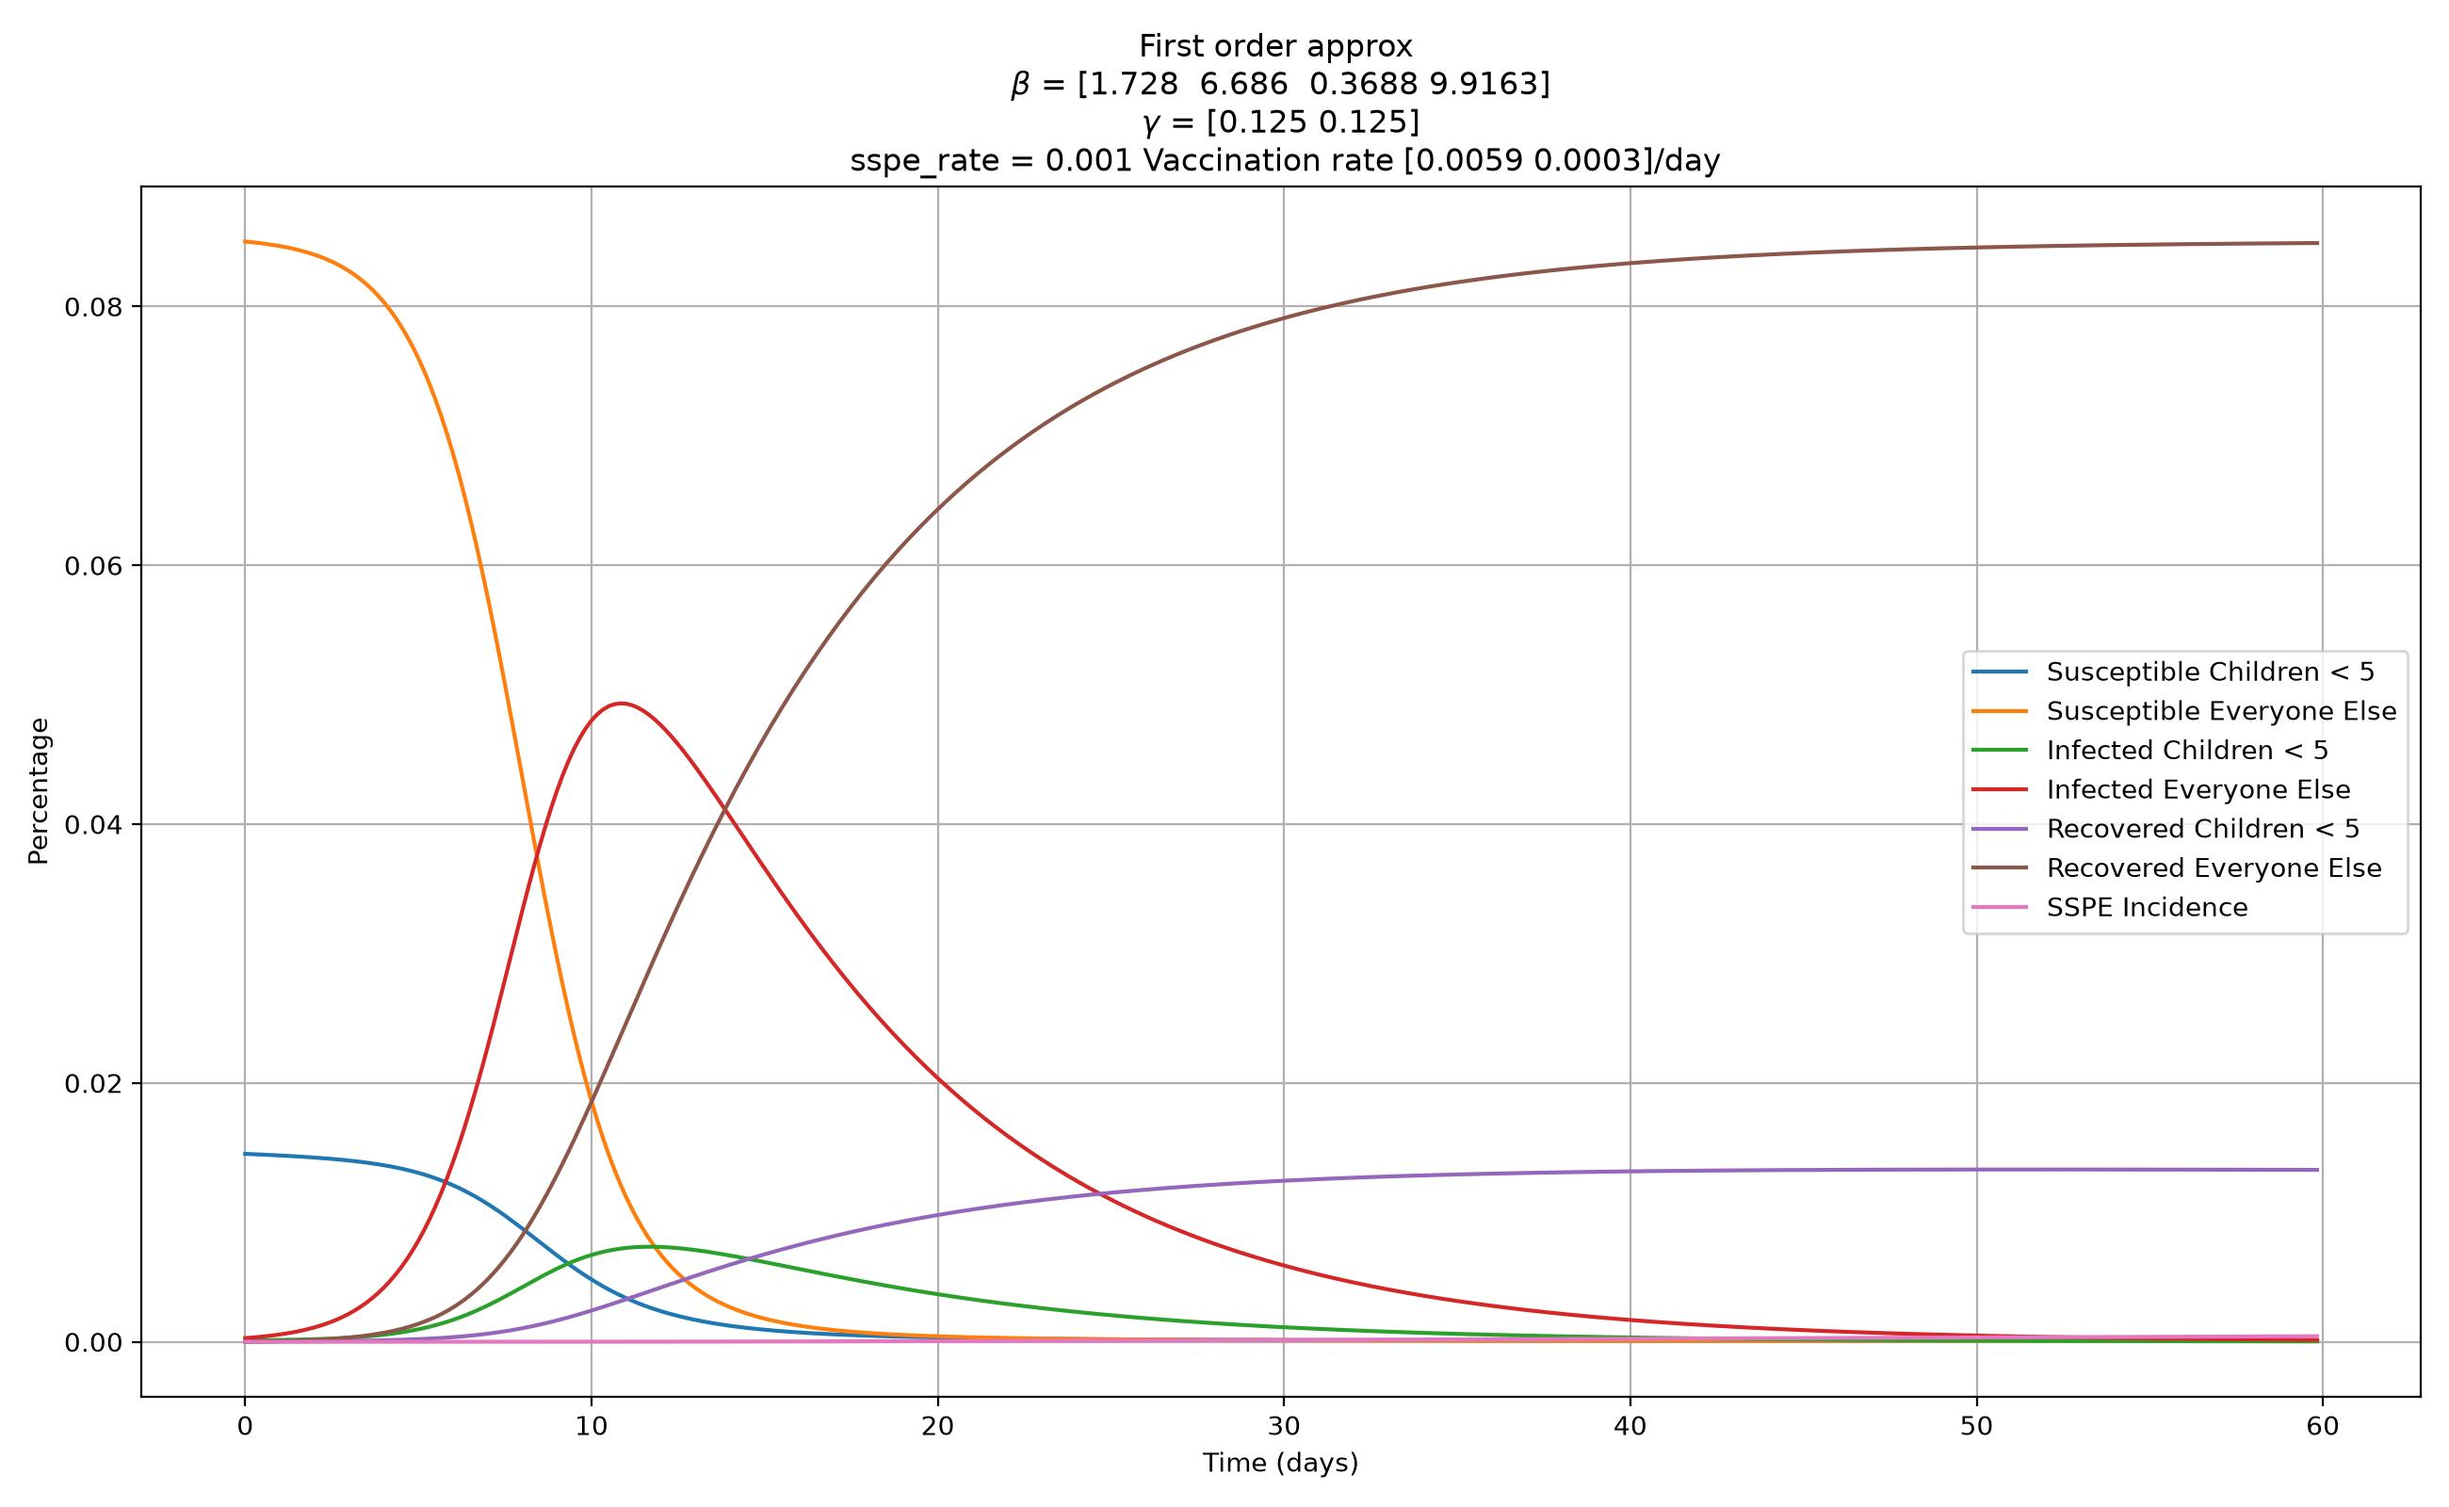
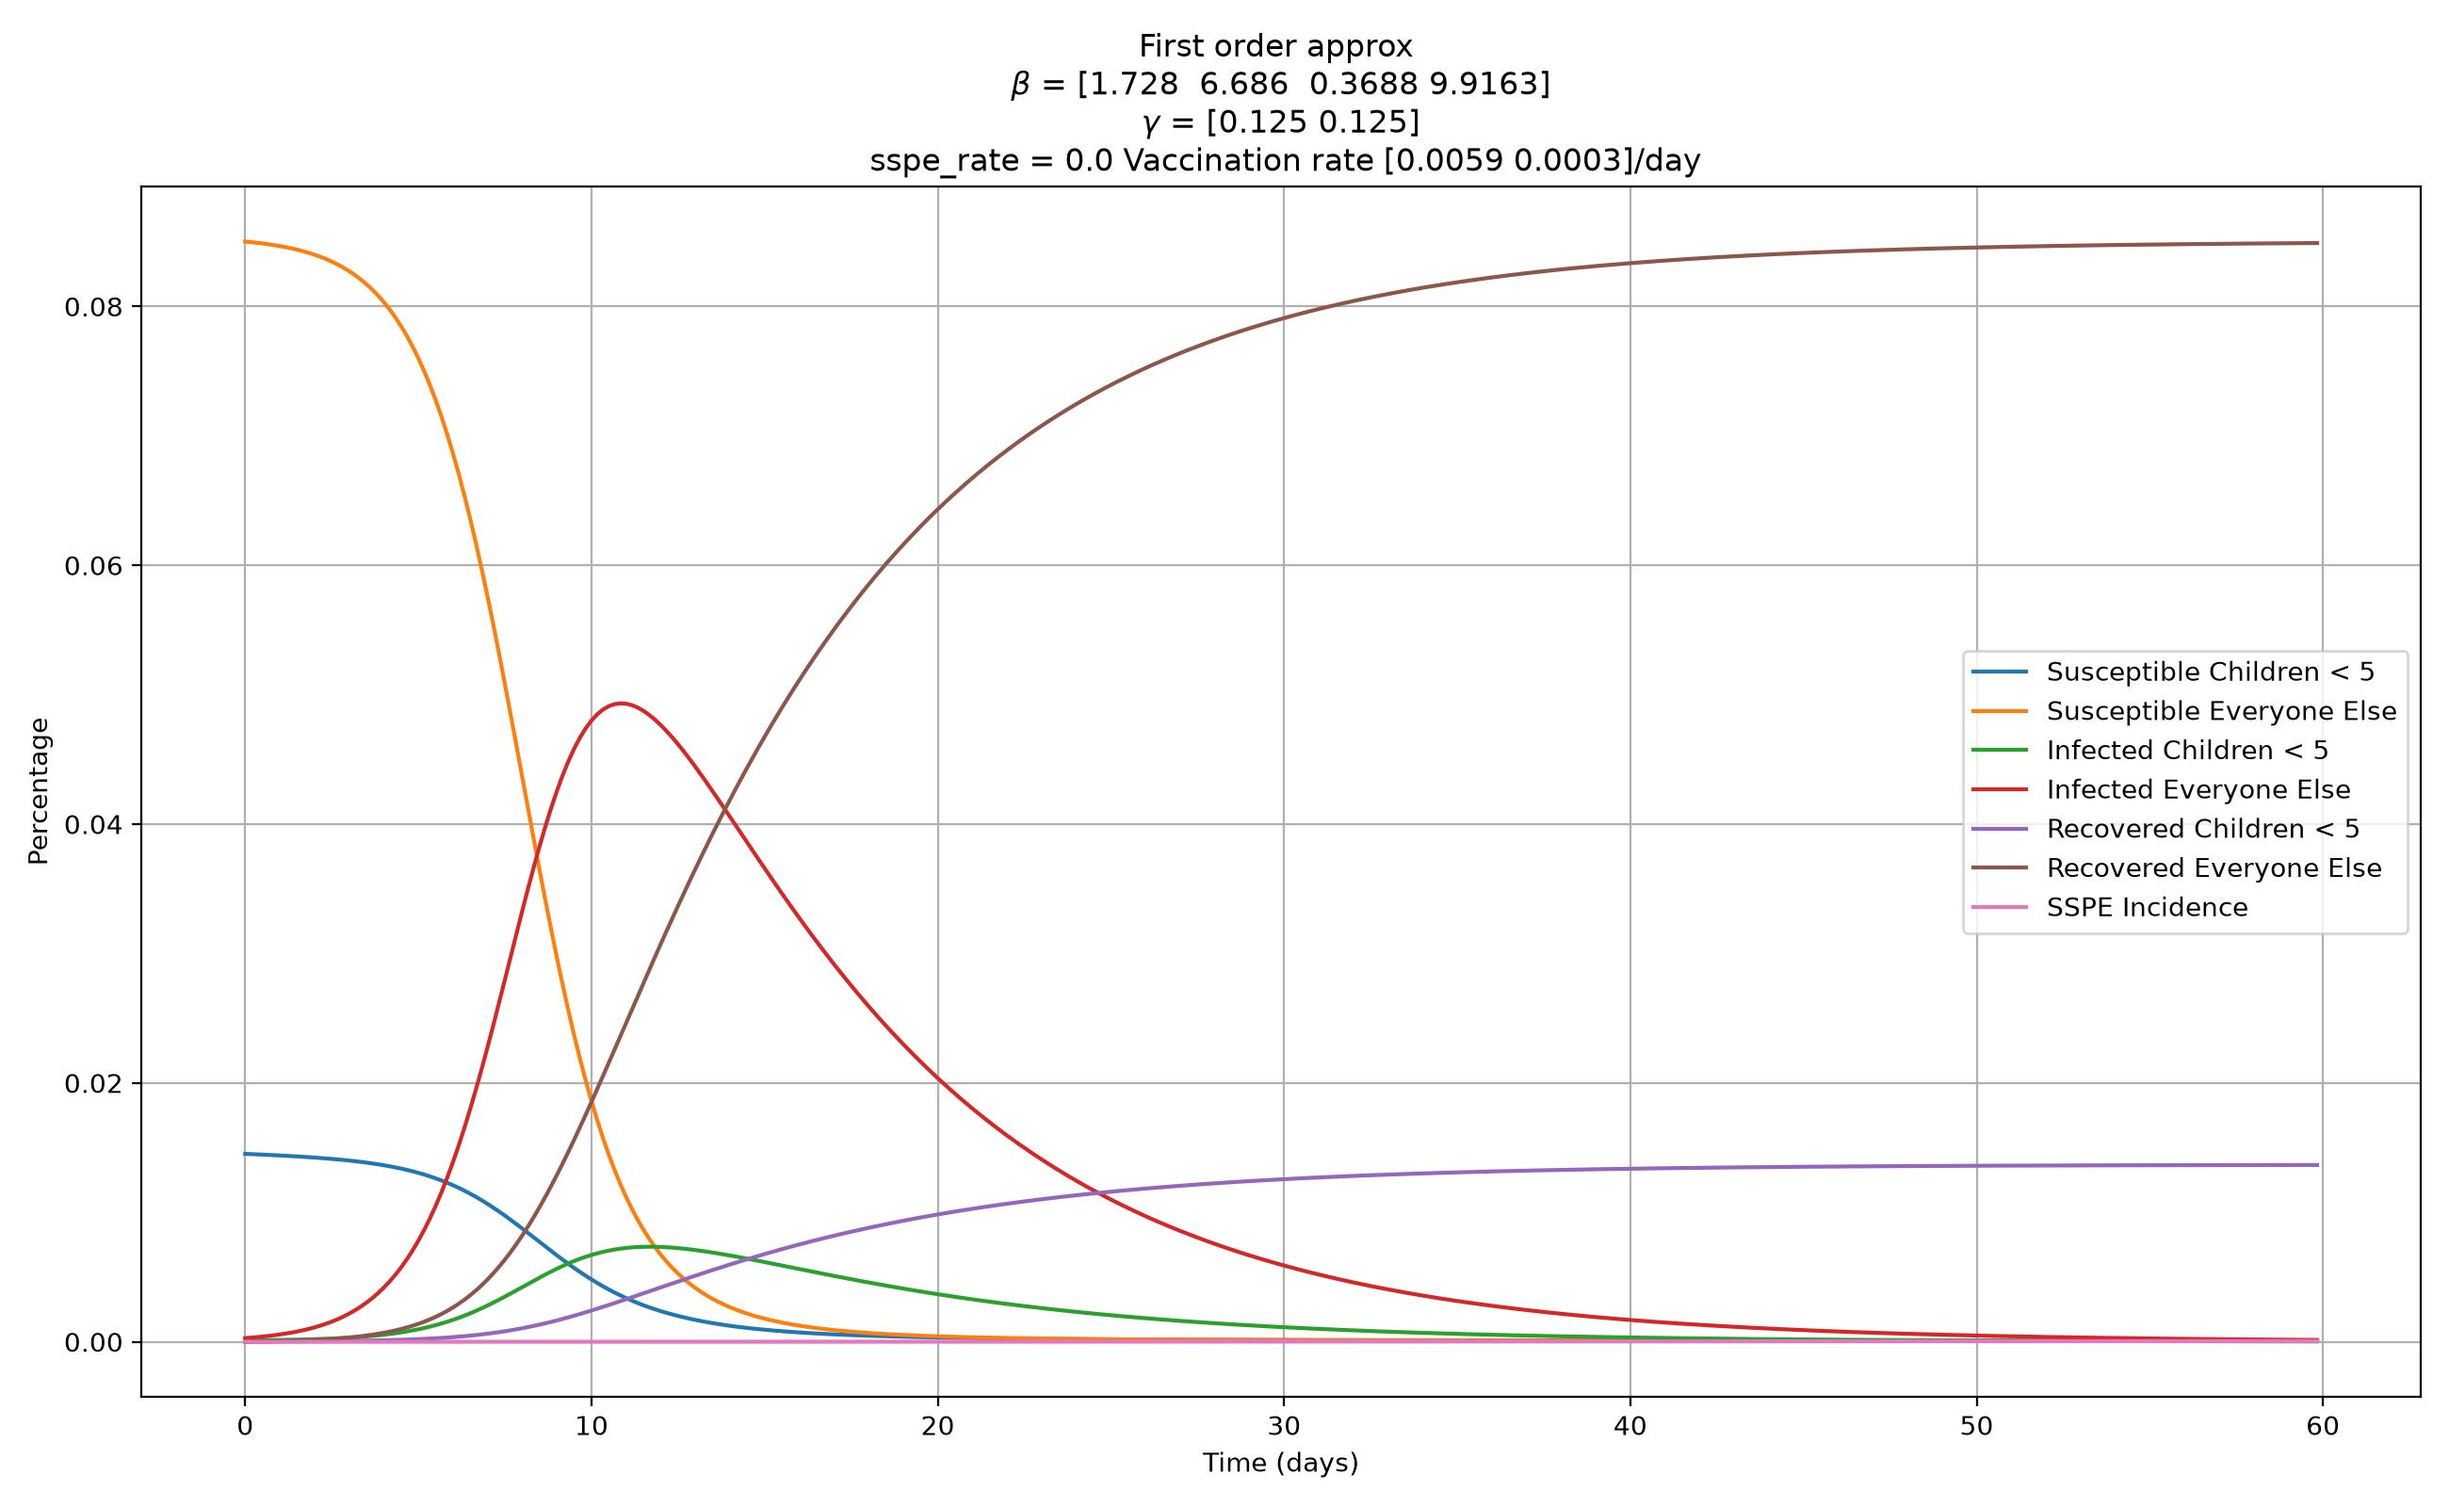
adjusted SSPE rate

Changed region(s): [[0.4673, 0.875, 0.9346, 0.9062], [0.3427, 0.0938, 0.7165, 0.125], [0.5919, 0.75, 0.9346, 0.7812]]

diff --git a/run_model.py b/run_model.py
@@ -44,14 +44,13 @@ def taylor_system_14(f,initial,t0,t1,n):
 beta = np.array([[1.7280,6.686],[0.3688,9.9163]])
 beta = beta.flatten()
 gamma = np.array([1/8,1/8])
-#delta = np.random.uniform(0,0.05)
-delta = 1 / 1336
+delta = (1 / 1336) * (1 / 8)
 delta = np.array([delta,0])
 nu_ = give_nu()
 pop_1,pop_2 = data_processing()
 vpop_1, vpop_2 = 0.72*pop_1,0.91*pop_2
 infpop_1, infpop_2 = give_I()
-suspop_1,suspop_2 = pop_1 -infpop_1-vpop_1, pop_2-infpop_2-vpop_2
+suspop_1,suspop_2 = pop_1 - infpop_1 - vpop_1, pop_2 - infpop_2 - vpop_2
 nu = np.array([0.8*nu_/suspop_1,0.2*nu_/suspop_2])
 initial_s = np.array([suspop_1,suspop_2])
 initial_i = np.array([infpop_1,infpop_2])
@@ -59,6 +58,10 @@ initial_r = np.zeros(2)
 initial_b = np.zeros(2)
 initial_v = np.array([vpop_1,vpop_2])
 initial = np.column_stack([initial_s,initial_i,initial_r,initial_b,initial_v])
+params = {'beta': beta,'gamma' : gamma, 'delta' : delta, 'nu' : nu}
+initial_d = {'s_0' : initial_s, 'i_0' : initial_i, 'r_0': initial_r, 'b_0' : initial_b, 'v_0' : initial_v}
+print("Parameters",params)
+print('Initial Conds', initial_d)
 points = taylor_system_14(SSPE,initial,0,60,360)
 t = points[0,:]
 s_1 = points[1,:]
@@ -101,11 +104,13 @@ ax[0,1].plot(t,r_1, label='Recovered Children < 5')
 ax[0,1].plot(t,r_2, label='Recovered People > 5')
 ax[0,1].set_xlabel('Time (days)')
 ax[0,1].set_ylabel('Percentage')
+ax[0,1].legend()
 ax[0,1].grid()
 ax[0,1].set_title(f'Recovered population over time rate')
 ax[1,1].plot(t,v_1, label='Vaccinated Population')
 ax[1,1].set_xlabel('Time (days)')
 ax[1,1].set_ylabel('Percentage')
+ax[1,1].legend()
 ax[1,1].grid()
 ax[1,1].set_title(rf'Vaccinated population over time rate = $\nu$ {nu}')
 ax[1,0].set_visible(False)

diff --git a/sympy_calcs.py b/sympy_calcs.py
@@ -52,4 +52,10 @@ error_01 = error.subs({s_sym:0,i_sym:1})
 error_h = error.subs({s_sym:sp.Rational(1,2),i_sym:sp.Rational(1,2)})
 error_p0 = error.subs({s_sym:eqs[0][s_sym],i_sym:0})
 error_pstar = error.subs({s_sym:eqs[1][s_sym],i_sym:eqs[1][i_sym]})
+sp.pprint(params)
 
+R_0 = (beta/gamma)*(b/(b+nu))
+#print("nu")
+#sp.pprint(nu.subs(params))
+#print("R_0")
+#sp.pprint(R_0.subs(params))

diff --git a/data_processing.py b/data_processing.py
@@ -46,4 +46,3 @@ def make_vaccine_csv():
     })
     data.to_csv("data/alberta_measles_doses_2025.csv", index=False)
 
-
